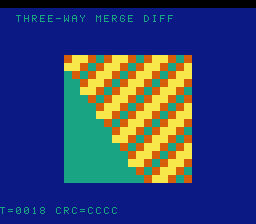
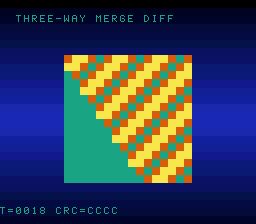
feat(snesgfx): backdrop_gradient.h — reusable HDMA backdrop vignette; trimerge first consumer
New library helper (hdma_hscroll.h conventions: header-only, generic chan,
caller owns write-only HDMAEN): BDROP_SPAN/BDROP_END declare a static ROM
table, bdrop_arm(chan, tab) points mode-3 HDMA at $2121 — per-scanline
CGRAM colour-0 gradient, zero per-frame CPU, zero v-blank budget. trimerge
arms ch7 post-title with a 28-band (8-line) vignette (16-line first cut was
visibly stripey); breathe_palette now pushes cgidx 1..3 since HDMA owns
colour 0. Gate PASS 0xCCCC (scmp probe intact), tear check ATOMIC with HDMA
active, backdrop samples ramp smoothly. Published biohack.net v1.0.288.

diff --git a/examples/snes/snesgfx/backdrop_gradient.h b/examples/snes/snesgfx/backdrop_gradient.h
@@ -1,0 +1,56 @@
+/* snesgfx — backdrop_gradient: a per-scanline backdrop (CGRAM colour 0) gradient via one HDMA
+ * channel.
+ *
+ * The classic SNES vertical-gradient technique: transfer mode 3 (two registers, write twice —
+ * $2121,$2121,$2122,$2122) re-points CGRAM colour 0 per band during h-blank. Each table run writes
+ * CGADD=0 twice (the second write is idempotent) and then the BGR555 colour word into CGDATA, so
+ * every scanline band gets its own backdrop colour. Anywhere colour 0 shows — the area outside a
+ * canvas/tilemap box, blank tiles, letterbox fills — takes the gradient; painted pixels of colours
+ * 1+ are untouched.
+ *
+ * Declare the table `static const` in ROM with BDROP_SPAN/BDROP_END (the table is walked by the
+ * HDMA engine straight off the A-bus, so it costs zero per-frame CPU and zero v-blank upload
+ * budget — nothing goes through the UploadQueue):
+ *
+ *   static const uint8_t grad_tab[] = {
+ *     BDROP_SPAN(16, 0, 1,  5),      // 16 scanlines of a near-black blue
+ *     BDROP_SPAN(16, 2, 4, 16),      // …
+ *     BDROP_END,
+ *   };
+ *   bdrop_arm(7, grad_tab);          // any channel clear of upq's GP-DMA ch0 + other HDMA users
+ *   REG_HDMAEN = 0x80u;              // caller owns HDMAEN (write-only, cannot be RMW'd here)
+ *
+ * A run's count byte carries at most 127 lines (bit 7 selects repeat mode) — split longer bands
+ * into consecutive spans. Bands should sum to 224; a short table holds the last colour for the
+ * remaining scanlines (benign, usually unintended). A v-blank CGRAM upload of colour 0 (e.g. a
+ * palette push at cgidx 0) never wins against an armed gradient — the engine rewrites colour 0
+ * from the first band at the top of every frame — so palettes that coexist with this helper
+ * should push from cgidx 1.
+ *
+ * Header-only (static inline). Does NOT touch HDMAEN — the caller enables bit (1<<chan) when
+ * ready and clears it when done, exactly as hdma_hscroll.h's users do. ROM tables arm with A-bus
+ * source bank 0 (the near-rodata mirror), same as hud.h's ROM tables. */
+#ifndef SNESGFX_BACKDROP_GRADIENT_H
+#define SNESGFX_BACKDROP_GRADIENT_H
+
+#include <snes.h>
+
+/* One gradient band: `lines` scanlines (1..127) of colour (r,g,b), 5 bits per channel. */
+#define BDROP_SPAN(lines, r, g, b) (uint8_t)(lines), 0u, 0u, \
+    (uint8_t)(SNES_RGB(r, g, b) & 0xFFu), (uint8_t)(SNES_RGB(r, g, b) >> 8)
+
+/* Table terminator. */
+#define BDROP_END 0u
+
+/* Arm HDMA channel `chan` to stream `tab` (a BDROP_SPAN table, bank 0) into CGADD/CGDATA.
+   Caller then sets REG_HDMAEN's (1<<chan) bit to start and clears it to stop. */
+static inline void bdrop_arm(uint8_t chan, const uint8_t *tab) {
+  volatile uint8_t *c = (volatile uint8_t *)(uintptr_t)(0x4300u + (uint16_t)chan * 0x10u);
+  c[0] = 0x03;                              /* DMAPx: A->B, transfer mode 3 (2 regs, write twice) */
+  c[1] = 0x21;                              /* BBADx: $2121 CGADD (then $2122 CGDATA twice)       */
+  c[2] = (uint8_t)(uintptr_t)tab;           /* A1TxL: table address low                           */
+  c[3] = (uint8_t)((uintptr_t)tab >> 8);    /* A1TxH: table address high                          */
+  c[4] = 0x00;                              /* A1Bx:  source bank 0 (near-rodata / low-WRAM)      */
+}
+
+#endif /* SNESGFX_BACKDROP_GRADIENT_H */

diff --git a/examples/snes/trimerge.c b/examples/snes/trimerge.c
@@ -19,6 +19,7 @@
 #include "snesgfx/bitmap_canvas.h"
 #include "snesgfx/text_layer.h"
 #include "snesgfx/title_layer.h"
+#include "snesgfx/backdrop_gradient.h"
 #include "../65816/trimerge.h"
 
 #define CANVAS_CHR  0x0000u
@@ -90,15 +91,33 @@ static uint16_t shade(uint16_t rgb, int8_t d) {
 }
 
 // Branch-palette breathing: +/-2 luma triangle over 32 sweeps; hue identity (teal/orange/yellow)
-// preserved so the colours still read as the -1/0/+1 branches. 8-byte CGRAM job per sweep.
+// preserved so the colours still read as the -1/0/+1 branches. Pushes cgidx 1..3 only (6 B/sweep):
+// colour 0 (the backdrop) is owned per-scanline by the HDMA gradient below.
 static void breathe_palette(App *a) {
     uint8_t ph = (uint8_t)(a->t & 31u);
     uint8_t tri = (ph <= 16u) ? ph : (uint8_t)(32u - ph);       // 0..16..0
     int8_t d = (int8_t)((int8_t)(tri >> 2) - (int8_t)2);        // -2..+2
-    a->pal[0] = bg3_pal[0];
     for (uint8_t k = 1u; k < (uint8_t)NCOL; k++) a->pal[k] = shade(bg3_pal[k], d);
-    upq_push_cgram(&a->screen.q, 0, a->pal, 0x00u, (uint8_t)sizeof a->pal);
+    upq_push_cgram(&a->screen.q, 1, &a->pal[1], 0x00u, (uint8_t)(sizeof a->pal - sizeof a->pal[0]));
 }
+
+// HDMA backdrop vignette (snesgfx/backdrop_gradient.h): near-black at the frame edges, deep
+// blue-violet mid, so the braid box floats. Colour 0 never appears inside the painted field, so
+// the gradient only shows outside the box. Channel 7 — clear of upq's GP-DMA ch0 and the title's
+// HDMA channels (disarmed at title_end); armed once post-title, zero per-frame cost.
+static const uint8_t grad_tab[] = {
+    BDROP_SPAN(8, 0, 1,  5), BDROP_SPAN(8, 0, 1,  6), BDROP_SPAN(8, 1, 2,  8),
+    BDROP_SPAN(8, 1, 2,  9), BDROP_SPAN(8, 1, 3, 10), BDROP_SPAN(8, 2, 3, 12),
+    BDROP_SPAN(8, 2, 3, 13), BDROP_SPAN(8, 2, 4, 14), BDROP_SPAN(8, 2, 4, 15),
+    BDROP_SPAN(8, 3, 4, 17), BDROP_SPAN(8, 3, 5, 18), BDROP_SPAN(8, 3, 5, 19),
+    BDROP_SPAN(8, 4, 6, 21), BDROP_SPAN(8, 4, 6, 22), BDROP_SPAN(8, 4, 6, 22),
+    BDROP_SPAN(8, 4, 6, 21), BDROP_SPAN(8, 3, 5, 19), BDROP_SPAN(8, 3, 5, 18),
+    BDROP_SPAN(8, 3, 4, 17), BDROP_SPAN(8, 2, 4, 15), BDROP_SPAN(8, 2, 4, 14),
+    BDROP_SPAN(8, 2, 3, 13), BDROP_SPAN(8, 2, 3, 12), BDROP_SPAN(8, 1, 3, 10),
+    BDROP_SPAN(8, 1, 2,  9), BDROP_SPAN(8, 1, 2,  8), BDROP_SPAN(8, 0, 1,  6),
+    BDROP_SPAN(8, 0, 1,  5),
+    BDROP_END,
+};
 
 static void cell_fill(BitmapCanvas *cv, uint8_t cx, uint8_t cy, uint8_t color) {
     uint16_t tile = (uint16_t)((uint16_t)cy * (uint16_t)CANVAS_TILES_W + (uint16_t)cx);
@@ -156,6 +175,8 @@ int main(void) {
     title_begin16(&a.screen, &title, "TRIMERGE", "SPACESHIP AS CONTROL FLOW");
     corpus_result = trimerge_gate_crc();   // runs during title; expected 0xCCCC
     title_end(&a.screen, &title, 90);
+    bdrop_arm(7, grad_tab);                // after title_end (which writes HDMAEN = 0)
+    REG_HDMAEN = 0x80u;                    // ch7 only — title's channels stay off
     for (;;) {
         field_band(&a);
         a.band++;

diff --git a/docs/plans/2026-07-27-99b-trimerge-visual-fix.md b/docs/plans/2026-07-27-99b-trimerge-visual-fix.md
@@ -142,8 +142,47 @@ scaffold should not overwrite an existing site `app.js` on update runs.**
 `/snes-rom-page` update flow for slug `trimerge` on biohack.net (`want` stays `0xCCCC`, `frames`
 500); then `dev/verify-web-roms.sh --only trimerge` against the site checkout before deploy.
 
+## Phase 3 (user-directed 2026-07-27): HDMA backdrop gradient
+
+Promoted from Deferred on user request — and then **librarized** (user: "come up with something for
+the library that can be reused by other demos"): new **`snesgfx/backdrop_gradient.h`**, written in
+`hdma_hscroll.h`'s conventions (header-only, generic `chan`, computed `$43x0` register base, caller
+owns the write-only `HDMAEN`). API = `BDROP_SPAN(lines, r, g, b)` / `BDROP_END` table macros +
+`bdrop_arm(chan, tab)`. Any demo declares a `static const` ROM table and arms a free channel —
+trimerge is the first consumer.
+
+- **Mechanism:** channel 7 (clear of `upq`'s GP-DMA channel 0 and the title's HDMA channels, which
+  are disarmed at `title_end` via `REG_HDMAEN = 0`), transfer **mode 3** → B-bus `$2121`: each table
+  entry writes `CGADD, CGADD, CGDATA lo, CGDATA hi` = re-points CGRAM colour 0 (the backdrop) per
+  line group during h-blank — the canonical SNES backdrop gradient. Table = `static const` in ROM
+  (14 × 16-line `BDROP_SPAN`s + `BDROP_END`, ~71 B), armed once after `title_end`.
+  **Zero per-frame CPU and zero v-blank budget cost.**
+- **Palette interplay:** HDMA owns colour 0 from scanline 0, so `breathe_palette` now pushes
+  `cgidx 1` (colours 1–3 only, 6 B) — breathing stays on the branch colours, gradient on the
+  backdrop.
+- **Gradient:** near-black at the top → deep blue-violet mid → near-black at the bottom, so the
+  braid box floats on a vignette instead of a flat navy field. Cell colour 0 does not appear inside
+  the painted 16×16 field, so the gradient only shows outside the box.
+- **Verify:** gate re-run (`0xCCCC`), tear check still ATOMIC, screenshot shows the vertical
+  gradient, `verify-web-roms` (blankscan) clean, republish.
+
+**Verification results (2026-07-27):** first cut used 14 × 16-line bands — visibly stripey — and was
+smoothed to **28 × 8-line bands** (linear interp to peak `(4,6,22)`; table-only change, the library
+made it a 2-minute tweak). Final ROM:
+
+```
+    PASS  llvm.scmp=4  scmp.i64=2  rep/sep=198  (G_SCMP formed incl. s64, drives control flow)
+SMOKE: PASS off=0x39 len=2 got=0xCCCC (ran 500 frames, bsnes-jg)
+RESULT: PASS — Three-Way Merge Diff on SNES; MAME + bsnes-jg + corpus hash 0xCCCC host == +mos-a16
+500->501: y-span 121px -> ATOMIC          # tear check holds with HDMA active
+backdrop@y=8/40/72/112/176/216: (0,4,32)(4,17,75)(10,25,122)(25,40,181)(10,17,103)(0,4,40)
+```
+
+Backdrop samples ramp smoothly edge→mid→edge — the braid box floats on the vignette.
+`verify-web-roms --only trimerge` PASS (incl. blankscan). **Published: biohack.net v1.0.288**
+(v1.0.286 carried the tear fix; v1.0.284 the original rework).
+
 ## Deferred / out of scope
 
 - Canvas widening beyond 16×16 tiles (needs `bitmap_canvas.h` geometry work — a snesgfx library
   change, not a demo fix).
-- HDMA backdrop gradient (same reason: no library support yet).

diff --git a/docs/plans/.history/2026-07-27-99b-trimerge-visual-fix.md b/docs/plans/.history/2026-07-27-99b-trimerge-visual-fix.md
@@ -1,8 +1,14 @@
 | Date | Change |
 |------|--------|
+| [2026-07-27](https://github.com/wbniv/llvm-mos-65816/commit/ab35c87) | fix(trimerge): atomic single-v-blank field flush — close the waterfall tear |
 | [2026-07-27](https://github.com/wbniv/llvm-mos-65816/commit/bc83003) | feat(trimerge): #99b visual rework — waterfall braid + stride-unit offset + palette breathing |
 
 <!--history-meta v1
+ab35c87	author	Will Norris
+ab35c87	added	43
+ab35c87	deleted	0
+ab35c87	files	1
+ab35c87	body	User-reported tearing: the band painter marked each 4-row band dirty as it\npainted, flushing bands in separate v-blanks while the waterfall shifted\nthe whole field -> marching shear boundary 15x/s. field_band now paints the\nshadow only; the sweep-boundary branch marks the whole canvas dirty once\nthe shadow completes -> one atomic 4 KB flush (4440 B worst-case v-blank\nincl. HUD+CGRAM, budget 5100 B; CANVAS_FLUSH_TILES 256 prevents re-split).\nGate re-run PASS (0xCCCC, scmp probe intact); new tear check in the plan:\nconsecutive-frame canvas diffs are full-span (121 px) or nil, 500..507.\nSite: biohack.net v1.0.286.\n\nCo-Authored-By: Claude Opus 4.8 (1M context) <noreply@anthropic.com>
 bc83003	author	Will Norris
 bc83003	added	106
 bc83003	deleted	0
